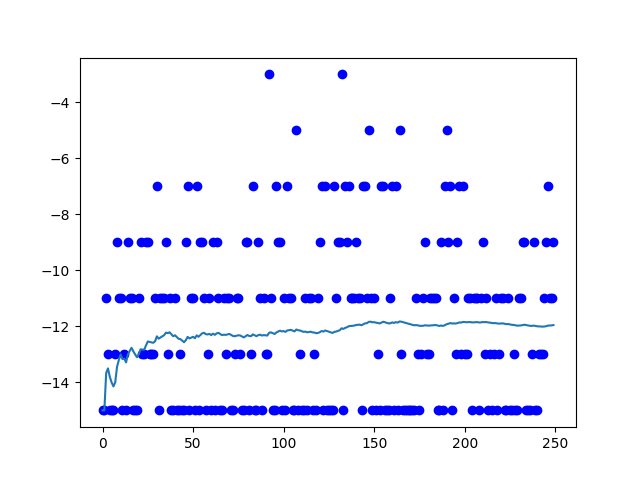
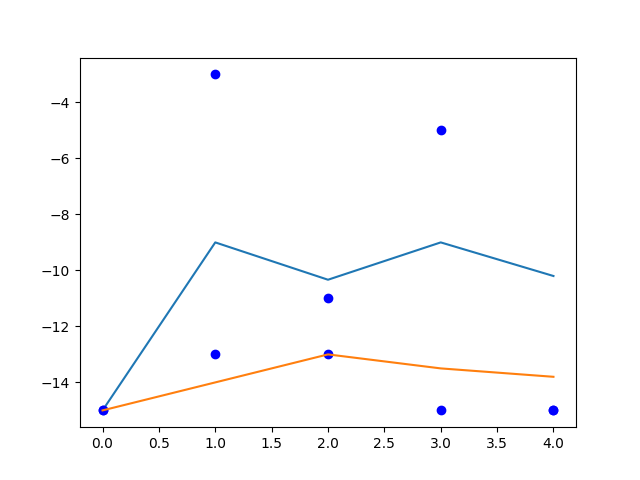
Modified to make sure the best weights save

diff --git a/game.py b/game.py
@@ -19,7 +19,7 @@ DEVICE = "cpu"
 def init_params():
     params = dict()
     # Bot NN parameters (adapted largely from https://github.com/maurock/snake-ga/tree/master)
-    params['total_games'] = 500
+    params['total_games'] = 5
     # Game parameters
     params["game_x_axis"] = 180
     params["game_y_axis"] = 270
@@ -34,7 +34,7 @@ def init_params():
     # Data parameters
     params['plot_score'] = True
     params["attempt"] = 8
-    params["target_acc"] = -10
+    params["target_acc"] = -15
     return params
 
 def objective(trial, params): # Runs the game
@@ -73,6 +73,8 @@ def objective(trial, params): # Runs the game
         #player = Player(params) 
         gate = Gate(params, game) 
         gates_passed = 0 # Reset number of gates every game
+        if(trial.number > 1):
+            params["target_acc"] = study.best_trial.value
 
         # Begin game and display (if applicable)
         init_state = game.get_state(player, bot, gate)
@@ -132,11 +134,11 @@ def objective(trial, params): # Runs the game
         acc_scores.append(curr_acc)
         game_scores.append(sum(bot_scores[-5:]))
         print(f'Game {games_counter}\tBot: {sum(bot_scores[-5:])}, {bot.score}\tPlayer: {sum(player_scores[-5:])}, {player.score}\tEpsilon: {round(bot.epsilon, 2)}\tAccurracy: {round(curr_acc, 4)}')
-    plot_scores(game_scores, bot_scores, acc_scores, params["attempt"])
+    plot_scores(game_scores, bot_scores, acc_scores, str(trial.number))
     if bot.test == False and curr_acc > params["target_acc"]:
         model_weights = bot.state_dict()
         torch.save(model_weights, bot.weights_path)
-        print(f'Weights saved, finished with higher accuracy\nCurrent: {curr_acc}\nPrevious Best: {params["target_acc"]}')
+        print(f'Weights saved, finished with higher accuracy\nCurrent: {curr_acc}\nTarget: {params["target_acc"]}')
     elif bot.test:
         print("Finished testing.")
     else:
@@ -248,9 +250,9 @@ if __name__ == '__main__':
     ####################
     ### OPTUNA SETUP ###
     ####################
-    study = optuna.create_study(direction="maximize")  # 'maximize' because objective function is returning accuracy
+    study = optuna.create_study(study_name=str(datetime.datetime.now().strftime("%Y-%m-%d_%H-%M-%S")), direction="maximize")  # 'maximize' because objective function is returning accuracy
     #study = optuna.create_study(direction="minimize")  # 'minimize' because objective function is returning loss
-    study.optimize(lambda trial: objective(trial, params), n_trials=500)
+    study.optimize(lambda trial: objective(trial, params), n_trials=5)
 
     pruned_trials = [t for t in study.trials if t.state == optuna.trial.TrialState.PRUNED]
     complete_trials = [t for t in study.trials if t.state == optuna.trial.TrialState.COMPLETE]
